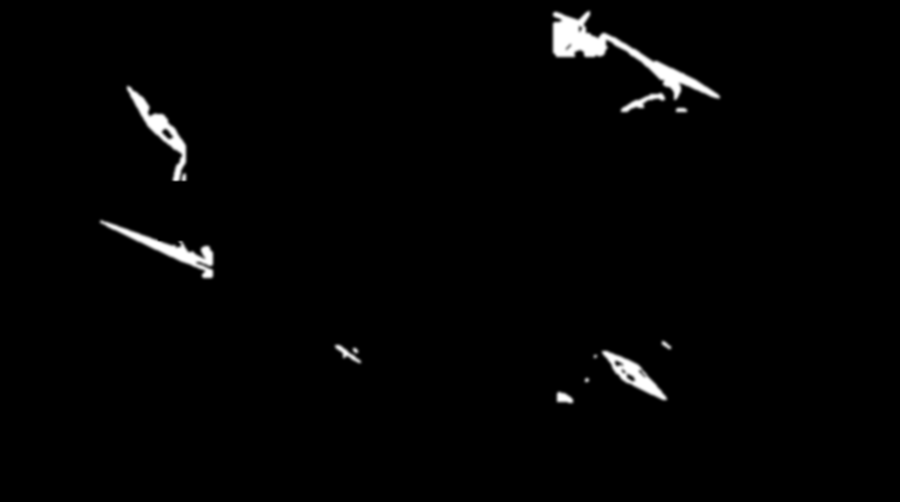
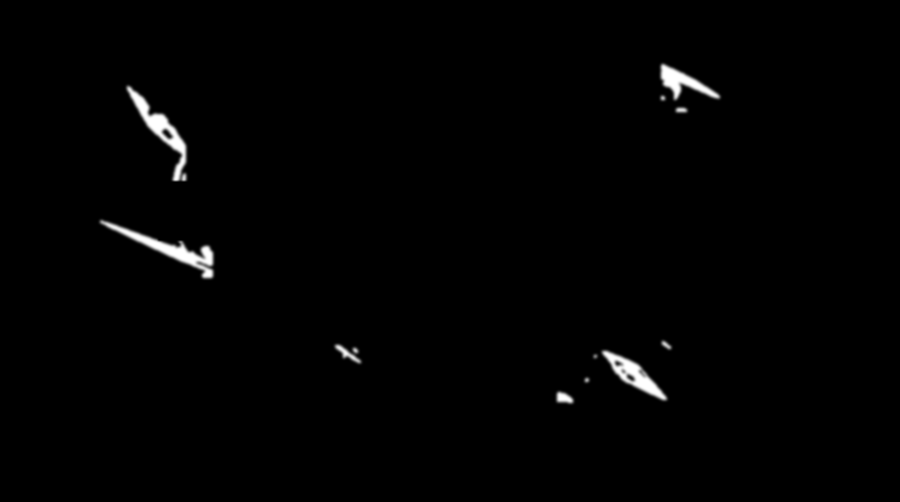
Shard depth: keep only free-floating shards, softer motion (no holes in armor)

Changed region(s): [[0.5911, 0.0299, 0.7156, 0.1195], [0.6844, 0.1195, 0.7467, 0.239]]

diff --git a/src/fx/crystal.js b/src/fx/crystal.js
@@ -261,7 +261,7 @@ export function initCrystal(canvas, { src, maskSrc, reduced, mobile }) {
     gl.uniform1i(U.uMask, 1);
     // осколки ближе к зрителю: сдвиг за мышью в ~3 раза сильнее фигуры + медленное покачивание
     const tt = reduced ? 0 : (now - t0) / 1000;
-    gl.uniform2f(U.uShardOff, mx * 0.009 + Math.sin(tt * 0.7) * 0.002, -my * 0.011 + Math.cos(tt * 0.9) * 0.003);
+    gl.uniform2f(U.uShardOff, mx * 0.006 + Math.sin(tt * 0.7) * 0.0015, -my * 0.007 + Math.cos(tt * 0.9) * 0.002);
     gl.uniform2f(U.uRes, canvas.width, canvas.height);
     gl.uniform4f(U.uRect, ...(cachedRect ||= rect()));
     gl.uniform2f(U.uMouse, mx, my);
